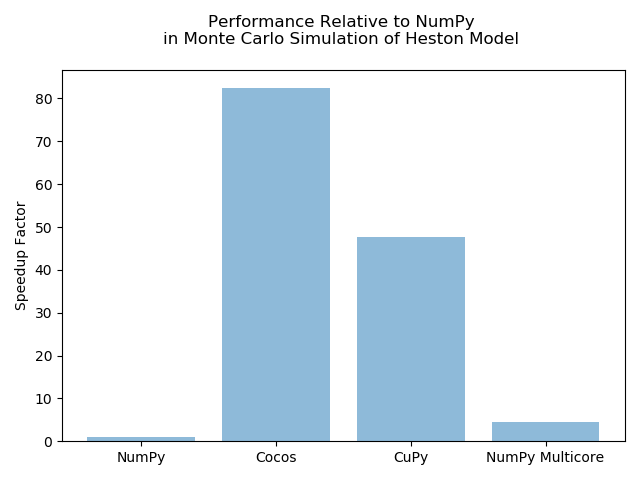
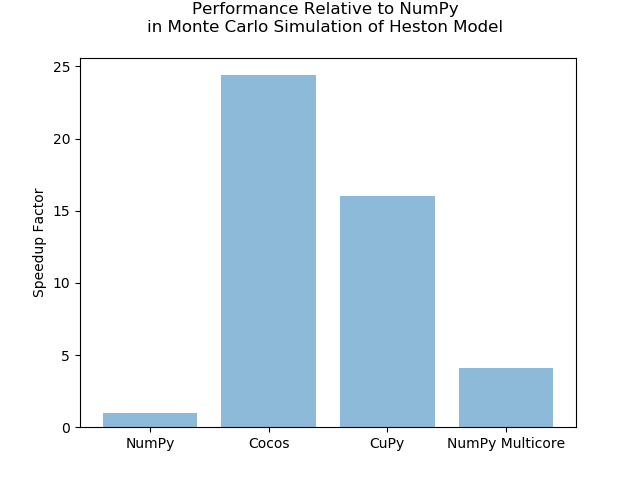
- updated single gpu benchmark results with run on Core i7 9700K

diff --git a/benchmarks/heston_pricing_benchmark.py b/benchmarks/heston_pricing_benchmark.py
@@ -232,6 +232,7 @@ def simulate_and_compute_option_price_multicore(
         numerical_package_bundle: tp.Type[NumericalPackageBundle],
         number_of_cores: tp.Optional[int] = None) -> float:
     if number_of_cores is None:
+        # number_of_cores = 5 * multiprocessing.cpu_count()
         number_of_cores = 5 * multiprocessing.cpu_count()
 
     kwargs = \
@@ -508,9 +509,9 @@ def create_bar_plot(
     plt.title('Performance Relative to NumPy \n'
               'in Monte Carlo Simulation of Heston Model \n')
 
-    plt.show()
-
     plt.savefig(f'heston_pricing_benchmark_results_{device_name}')
+
+    plt.show()
 
 
 def main():

diff --git a/README.md b/README.md
@@ -420,8 +420,8 @@ under a Heston stochastic volatility model on the CPU using NumPy on a single
 core as well as on all cores simultaneously and the GPU using Cocos and CuPy. 
 CuPy is another package that provides a NumPy-like API for GPU computing.
 
-The results were produced on a machine with an Intel Core i7 3770K with 32GB of 
-RAM and a NVidia GeForce GTX 1070 running Windows 10. Two Million paths are being simulated with 
+The results were produced on a machine with an Intel Core i7 9700K with 128GB of 
+RAM and a NVidia GeForce GTX 1060 running Windows 10. Two Million paths are being simulated with 
 500 time steps per year.
 
 <table>
@@ -433,23 +433,23 @@ RAM and a NVidia GeForce GTX 1070 running Windows 10. Two Million paths are bein
 </tr>
 <tr>
 <td>NumPy</td>
-<td>112.67600083351135</td>
+<td>45.31574273109436</td>
 <td>1.0</td>
 </tr>
 <tr>
 <td>Cocos</td>
-<td>1.3659989833831787</td>
-<td>82.48615277475973</td>
+<td>1.8577601909637451</td>
+<td>24.39267616536989</td>
 </tr>
 <tr>
 <td>CuPy</td>
-<td>2.3670005798339844</td>
-<td>47.60286152587853</td>
+<td>2.8235089778900146</td>
+<td>16.049441700361953</td>
 </tr>
 <tr>
 <td>NumPy Multicore</td>
-<td>25.01400113105774</td>
-<td>4.504517299857768</td>
+<td>11.038469791412354</td>
+<td>4.10525585406311</td>
 </tr>
 </table>
 
